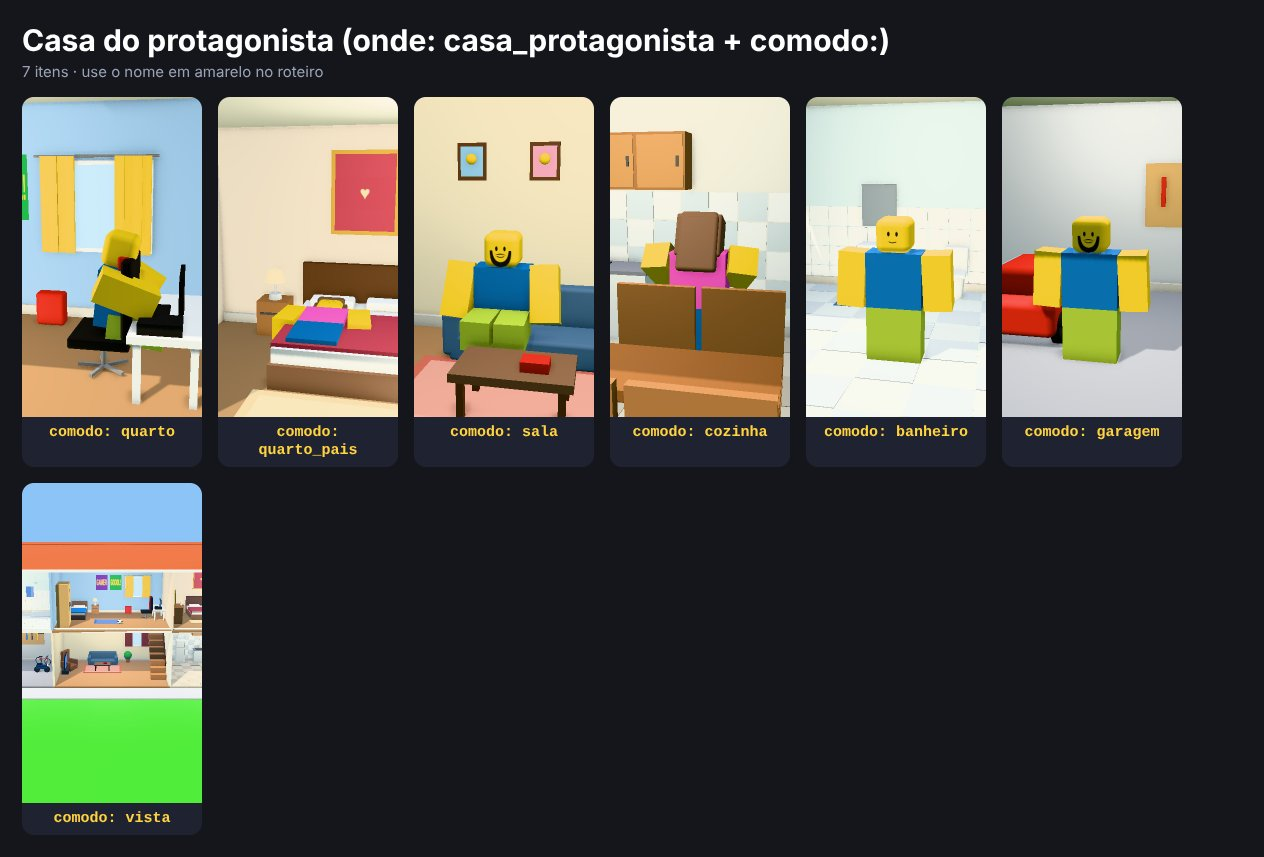
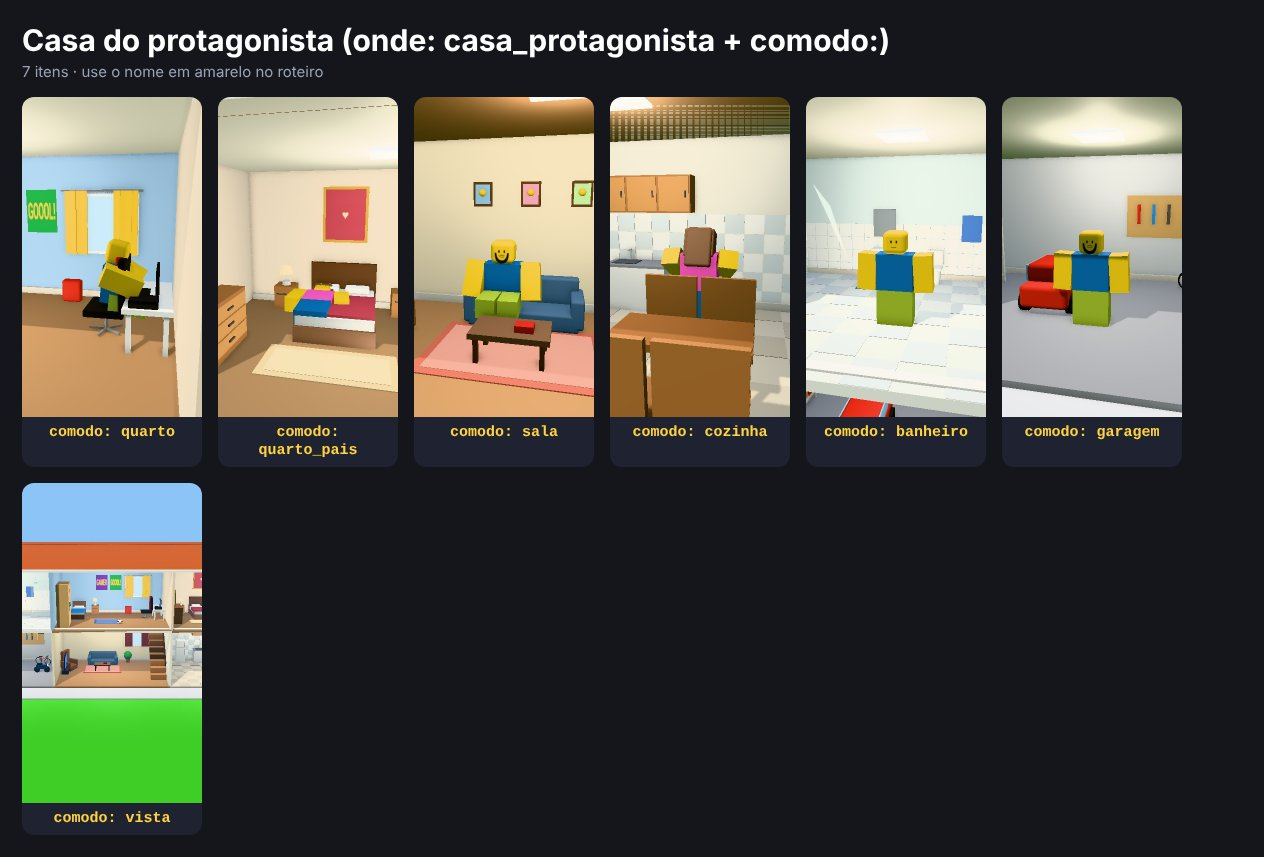
Casas, sobrados, prédios, lojas e bancas na escala do personagem; conferência automática do mundo (ferramentas/conferir_mundo.mjs)
Claude-Session: https://claude.ai/code/session_01L9V3oGiK3wXogPFqZJY4DD

Changed region(s): [[0.0, 0.091, 0.9565, 0.4854], [0.0, 0.6068, 0.1851, 0.9405]]

diff --git a/src/motor/props.js b/src/motor/props.js
@@ -24,14 +24,13 @@ export const PROPS = {
   pinheiro: (o = {}) => grupo([cilindro(0.35, 0.4, 2, '#6b4426', { pos: [0, 1, 0] }), cilindro(0, 2.4, 3.2, o.cor || '#22803a', { pos: [0, 3.2, 0], seg: 10 }),
     cilindro(0, 1.8, 2.6, o.cor || '#2a9443', { pos: [0, 4.6, 0], seg: 10 })]),
   arbusto: (o = {}) => grupo([esfera(1.1, o.cor || '#2f9e3a', { pos: [0, 0.7, 0] }), esfera(0.8, o.cor || '#38ad42', { pos: [0.9, 0.5, 0.2] })]),
-  casa: (o = {}) => { const w = o.largura || 10, h = o.altura || 8, d = 8, n = o.noite;
+  casa: (o = {}) => { const w = o.largura || 10, h = Math.max(9, o.altura || 9), d = 8, n = o.noite;
     const g = grupo([caixa(w, h, d, o.cor || '#e9e6dc', { pos: [0, h / 2, 0] }), caixa(w + 1, 1.2, d + 1, o.telhado || '#3d8f3d', { pos: [0, h + 0.6, 0] }),
-      caixa(2, 3.6, 0.15, o.porta || '#7a4b2a', { pos: [-w / 4, 1.8, d / 2 + 0.05] })]);
-    for (const x of [w / 5, w / 2.6]) g.add(caixa(1.8, 1.8, 0.15, janelaMat(n), { pos: [x, h * 0.55, d / 2 + 0.05] }));
-    g.add(caixa(1.8, 1.8, 0.15, janelaMat(n), { pos: [-w / 4, h * 0.78, d / 2 + 0.05] })); return g; },
+      caixa(2.3, 6.2, 0.15, o.porta || '#7a4b2a', { pos: [-w / 4, 3.1, d / 2 + 0.05] })]);
+    for (const x of [w / 6, w / 2.8]) g.add(caixa(2.2, 2.4, 0.15, janelaMat(n), { pos: [x, 4.4, d / 2 + 0.05] })); return g; },
   predio: (o = {}) => { const w = o.largura || 10, h = o.altura || 22, n = o.noite; const g = grupo([caixa(w, h, 8, o.cor || '#9fb3c8', { pos: [0, h / 2, 0] })]);
-    for (let y = 3; y < h - 1; y += 3.2) for (let x = -w / 2 + 1.6; x < w / 2 - 1; x += 2.4) for (const zz of [4.05, -4.05]) g.add(caixa(1.4, 1.8, 0.1, janelaMat(n && ((x * 7 + y + zz) % 3 > 1)), { pos: [x, y, zz], sombra: false }));
-    for (let y = 3; y < h - 1; y += 3.2) for (const zz of [-1.6, 1.6]) for (const sx of [-1, 1]) g.add(caixa(0.1, 1.8, 1.4, janelaMat(n && ((zz * 5 + y) % 3 > 1)), { pos: [sx * (w / 2 + 0.05), y, zz], sombra: false }));
+    for (let y = 4.4; y < h - 2; y += 6.4) for (let x = -w / 2 + 1.8; x < w / 2 - 1.2; x += 3.2) for (const zz of [4.05, -4.05]) g.add(caixa(2, 2.6, 0.1, janelaMat(n && ((x * 7 + y + zz) % 3 > 1)), { pos: [x, y, zz], sombra: false }));
+    for (let y = 4.4; y < h - 2; y += 6.4) for (const zz of [-1.8, 1.8]) for (const sx of [-1, 1]) g.add(caixa(0.1, 2.6, 2, janelaMat(n && ((zz * 5 + y) % 3 > 1)), { pos: [sx * (w / 2 + 0.05), y, zz], sombra: false }));
     g.add(caixa(w - 0.4, 0.2, 7.6, '#8f939c', { pos: [0, h + 0.1, 0] }));
     return g; },
   poste: (o = {}) => { const g = grupo([cilindro(0.15, 0.2, 9, '#5a5d66', { pos: [0, 4.5, 0] }), caixa(2.2, 0.2, 0.2, '#5a5d66', { pos: [0.9, 8.9, 0] }),
@@ -84,11 +83,11 @@ export const PROPS = {
   hidrante: () => grupo([cilindro(0.35, 0.4, 1.3, '#c4281c', { pos: [0, 0.65, 0] }), esfera(0.36, '#c4281c', { pos: [0, 1.3, 0] }), cilindro(0.15, 0.15, 1.0, '#c4281c', { pos: [0, 0.9, 0], rot: [0, 0, 90] })]),
   lixeira: (o = {}) => grupo([cilindro(0.55, 0.45, 1.6, o.cor || '#2e7d32', { pos: [0, 0.8, 0] }), cilindro(0.6, 0.6, 0.12, '#1b5e20', { pos: [0, 1.65, 0] })]),
   faixa_pedestre: (o = {}) => { const g = grupo([]); for (let i = 0; i < 7; i++) g.add(caixa(1.0, 0.03, o.comprimento || 8, '#f2f3f3', { pos: [i * 1.8 - 5.4, 0.09, 0], sombra: false })); return g; },
-  loja: (o = {}) => { const w = o.largura || 9, c = o.cor || '#e85d5d', n = o.noite; const g = grupo([caixa(w, 7, 6, o.parede || '#f1e7c9', { pos: [0, 3.5, 0] }),
-    caixa(w - 2, 3.4, 0.2, mat(n ? '#ffe3a3' : '#bfe6ff', { emissive: n ? '#ffd27a' : '#bfe6ff', emissiveIntensity: n ? 1.1 : 0.35, rough: 0.1 }), { pos: [0, 2.2, 3.02] }),
-    caixa(w, 0.4, 2.2, c, { pos: [0, 4.4, 4.0], rot: [-18, 0, 0] })]);
-    for (let i = 0; i < Math.floor(w / 1.5); i++) g.add(caixa(0.75, 0.42, 2.25, '#ffffff', { pos: [-w / 2 + 0.375 + i * 1.5, 4.41, 4.01], rot: [-18, 0, 0], sombra: false }));
-    const p = placaTexto(o.texto || 'LOJA', w - 1, 1.2, { fundo: c, corTexto: '#ffffff', emissivo: n }); p.position.set(0, 5.9, 3.02); g.add(p);
+  loja: (o = {}) => { const w = o.largura || 9, c = o.cor || '#e85d5d', n = o.noite; const g = grupo([caixa(w, 10, 6, o.parede || '#f1e7c9', { pos: [0, 5, 0] }),
+    caixa(w - 2, 5.4, 0.2, mat(n ? '#ffe3a3' : '#bfe6ff', { emissive: n ? '#ffd27a' : '#bfe6ff', emissiveIntensity: n ? 1.1 : 0.35, rough: 0.1 }), { pos: [0, 3.2, 3.02] }),
+    caixa(w, 0.4, 2.2, c, { pos: [0, 6.6, 4.0], rot: [-18, 0, 0] })]);
+    for (let i = 0; i < Math.floor(w / 1.5); i++) g.add(caixa(0.75, 0.42, 2.25, '#ffffff', { pos: [-w / 2 + 0.375 + i * 1.5, 6.61, 4.01], rot: [-18, 0, 0], sombra: false }));
+    const p = placaTexto(o.texto || 'LOJA', w - 1, 1.2, { fundo: c, corTexto: '#ffffff', emissivo: n }); p.position.set(0, 8.4, 3.02); g.add(p);
     g.add(caixa(w - 0.4, 0.15, 5.6, '#8f939c', { pos: [0, 7.05, 0] })); g.add(caixa(w + 0.2, 0.8, 0.25, o.parede || '#f1e7c9', { pos: [0, 7.3, 2.9] }));   // laje + platibanda
     const cx = PROPS.caixa_dagua(); cx.position.set(w / 2 - 1.6, 7.1, -1.4); g.add(cx);
     g.add(caixa(1.6, 3.4, 0.12, '#7a4b2a', { pos: [-w / 4, 1.7, -3.02] })); g.add(caixa(1.8, 1.4, 0.12, janelaMat(n), { pos: [w / 4, 4.2, -3.02] }));        // porta e janela dos fundos
@@ -128,8 +127,8 @@ export const PROPS = {
   palanque: (o = {}) => { const g = grupo([caixa(10, 1.4, 6, '#7a1f2b', { pos: [0, 0.7, 0] }), caixa(10.2, 0.15, 6.2, '#c9a24a', { pos: [0, 1.45, 0] }),
     caixa(1.8, 2.4, 1.2, '#5a3a22', { pos: [0, 2.6, 1.6] }), cilindro(0.04, 0.04, 1.0, '#222', { pos: [0, 4.2, 1.9], rot: [-30, 0, 0] }), esfera(0.12, '#333', { pos: [0, 4.65, 2.2] })]);
     const p = placaTexto(o.texto || 'PREFEITURA', 1.7, 0.45, { fundo: '#1d3b72', corTexto: '#ffffff' }); p.position.set(0, 2.9, 2.21); g.add(p); return g; },
-  barraca: (o = {}) => { const c = o.cor || '#e8862f'; const g = grupo([caixa(5, 2.2, 2.4, '#b8875a', { pos: [0, 1.1, 0] }), caixa(5.4, 0.3, 3, c, { pos: [0, 4.6, 0.3] })]);
-    for (const x of [-2.4, 2.4]) g.add(cilindro(0.1, 0.1, 4.5, '#ddd', { pos: [x, 2.3, 1.4] }));
+  barraca: (o = {}) => { const c = o.cor || '#e8862f'; const g = grupo([caixa(5, 2.2, 2.4, '#b8875a', { pos: [0, 1.1, 0] }), caixa(5.4, 0.3, 3, c, { pos: [0, 6.4, 0.3] })]);
+    for (const x of [-2.4, 2.4]) g.add(cilindro(0.1, 0.1, 6.3, '#ddd', { pos: [x, 3.2, 1.4] }));
     for (let i = 0; i < 8; i++) g.add(esfera(0.3, ['#e53935', '#ffd23f', '#7fd35a', '#ff8c1a'][i % 4], { pos: [-1.9 + i * 0.55, 2.45, 0.4] })); return g; },
   outdoor: (o = {}) => { const g = grupo([cilindro(0.25, 0.25, 7, '#5a5d66', { pos: [-3, 3.5, 0] }), cilindro(0.25, 0.25, 7, '#5a5d66', { pos: [3, 3.5, 0] }), caixa(11, 5, 0.3, '#333', { pos: [0, 9, 0] })]);
     const p = placaTexto(o.texto || 'VOTE 10', 10.4, 4.4, { fundo: o.cor || '#1d3b72', corTexto: '#ffd23f', emissivo: o.noite }); p.position.set(0, 9, 0.17); g.add(p); return g; },
@@ -272,10 +271,10 @@ export const PROPS = {
   placa_rua: (o = {}) => { const g = grupo([cilindro(0.1, 0.1, 7.2, '#5a5d66', { pos: [0, 3.6, 0], seg: 8 })]);
     for (const v of [0, Math.PI]) { const p = placaTexto(o.texto || 'RUA DA MATRIZ', 3.6, 0.7, { fundo: '#1d6fd9', corTexto: '#ffffff' }); p.position.set(1.9 * Math.cos(v), 6.8, 0.06 * (v ? -1 : 1)); p.rotation.y = v; g.add(p); }
     return g; },
-  banca_jornal: (o = {}) => { const g = grupo([caixa(4.4, 5, 3, '#1f7a3a', { pos: [0, 2.5, -0.2] }), caixa(5, 0.25, 4, '#17602d', { pos: [0, 5.1, 0.1] }), caixa(3.6, 3.0, 0.1, '#0f3d1c', { pos: [0, 2.6, 1.31] })]);
+  banca_jornal: (o = {}) => { const g = grupo([caixa(4.4, 6.4, 3, '#1f7a3a', { pos: [0, 3.2, -0.2] }), caixa(5, 0.25, 4, '#17602d', { pos: [0, 6.5, 0.1] }), caixa(3.6, 3.0, 0.1, '#0f3d1c', { pos: [0, 2.6, 1.31] })]);
     const cs = ['#e53935', '#1e88e5', '#fdd835', '#8e24aa', '#43a047', '#fb8c00'];
     for (let i = 0; i < 12; i++) g.add(caixa(0.55, 0.75, 0.05, cs[i % 6], { pos: [-1.5 + (i % 6) * 0.6, 1.8 + Math.floor(i / 6) * 1.1, 1.37], sombra: false }));   // revistas
-    const pl = placaTexto(o.texto || 'BANCA', 3.4, 0.8, { fundo: '#ffd23f', corTexto: '#1f7a3a' }); pl.position.set(0, 4.5, 1.32); g.add(pl); return g; },
+    const pl = placaTexto(o.texto || 'BANCA', 3.4, 0.8, { fundo: '#ffd23f', corTexto: '#1f7a3a' }); pl.position.set(0, 5.6, 1.32); g.add(pl); return g; },
   bicicletario: () => { const g = grupo([caixa(5, 0.1, 0.3, '#5a5d66', { pos: [0, 0.05, 0] })]);
     for (let i = 0; i < 4; i++) { const x = -1.8 + i * 1.2; g.add(caixa(0.1, 1.6, 0.1, '#9aa0aa', { pos: [x, 0.8, -0.35] })); g.add(caixa(0.1, 1.6, 0.1, '#9aa0aa', { pos: [x, 0.8, 0.35] })); g.add(caixa(0.1, 0.1, 0.8, '#9aa0aa', { pos: [x, 1.6, 0] })); }
     for (const x of [-1.2, 1.2]) { const b = PROPS.bicicleta(); b.position.set(x, 0, 0); b.rotation.y = Math.PI / 2; g.add(b); } return g; },
@@ -317,23 +316,25 @@ export function assentosDe(raiz) {
 
 /** Casa brasileira: telhado de telha em duas águas, grade na janela, caixa d'água opcional. andares = 1 ou 2. */
 function casaBR(o, andares) {
-  const w = o.largura || 9, d = 8, hA = 4.2, h = hA * andares, c = o.cor || '#f0b446', n = o.noite;
-  const g = grupo([caixa(w, h, d, c, { pos: [0, h / 2, 0] }), caixa(w + 0.1, 0.5, d + 0.1, o.barrado || '#d8d4cc', { pos: [0, 0.25, 0] })]);
+  // escala do personagem (5,2 de altura): andar de 7, porta de 6,2, peitoril na cintura (~3). A frente fica em z = +4 como antes; a casa cresce para trás.
+  const w = o.largura || 9, d = 11, hA = 7, h = hA * andares, c = o.cor || '#f0b446', n = o.noite, z0 = 4 - d / 2;
+  const g = grupo([caixa(w, h, d, c, { pos: [0, h / 2, z0] }), caixa(w + 0.1, 0.6, d + 0.1, o.barrado || '#d8d4cc', { pos: [0, 0.3, z0] })]);
   const telha = o.telhado || '#c8643b', inc = 26, meio = d / 2 + 0.7, comp = meio / Math.cos(inc * Math.PI / 180);
-  for (const s of [-1, 1]) g.add(caixa(w + 1.2, 0.35, comp, telha, { pos: [0, h + Math.tan(inc * Math.PI / 180) * meio / 2, s * meio / 2], rot: [s * inc, 0, 0] }));
+  for (const s of [-1, 1]) g.add(caixa(w + 1.2, 0.35, comp, telha, { pos: [0, h + Math.tan(inc * Math.PI / 180) * meio / 2, z0 + s * meio / 2], rot: [s * inc, 0, 0] }));
   { // oitão (triângulo das laterais) sob as duas águas do telhado
     const sub = Math.tan(inc * Math.PI / 180) * (d / 2), sh = new THREE.Shape([new THREE.Vector2(-d / 2, 0), new THREE.Vector2(d / 2, 0), new THREE.Vector2(0, sub)]);
-    const ot = new THREE.Mesh(new THREE.ExtrudeGeometry(sh, { depth: w - 0.02, bevelEnabled: false }), mat(c)); ot.rotation.y = Math.PI / 2; ot.position.set(-w / 2 + 0.01, h, 0);
+    const ot = new THREE.Mesh(new THREE.ExtrudeGeometry(sh, { depth: w - 0.02, bevelEnabled: false }), mat(c)); ot.rotation.y = Math.PI / 2; ot.position.set(-w / 2 + 0.01, h, z0);
     ot.castShadow = ot.receiveShadow = true; g.add(ot); }
   const vid = () => mat(n ? '#ffe3a3' : '#a8dcff', n ? { emissive: '#ffd27a', emissiveIntensity: 1.1 } : { rough: 0.15, metal: 0.1 });
-  const janela = (x, y) => { g.add(caixa(2.2, 1.9, 0.15, '#ffffff', { pos: [x, y, d / 2 + 0.04] })); g.add(caixa(1.9, 1.6, 0.16, vid(), { pos: [x, y, d / 2 + 0.06], sombra: false }));
-    if (o.grade !== false) for (let k = -0.8; k <= 0.81; k += 0.4) g.add(caixa(0.06, 1.7, 0.06, '#2b2b2b', { pos: [x + k, y, d / 2 + 0.2] })); };
-  g.add(caixa(1.8, 3.4, 0.15, o.porta || '#7a4b2a', { pos: [-w / 4, 1.95, d / 2 + 0.05] })); g.add(esfera(0.1, '#e0b040', { pos: [-w / 4 + 0.6, 1.9, d / 2 + 0.15] }));
-  janela(w / 5, 2.4); if (andares === 2) { janela(-w / 4, hA + 2.2); janela(w / 5, hA + 2.2);
-    g.add(caixa(w * 0.55, 0.25, 1.4, '#d8d4cc', { pos: [w / 5 - 0.3, hA + 0.4, d / 2 + 0.7] }));
-    for (let x = -w * 0.25; x <= w * 0.25; x += 0.45) g.add(caixa(0.07, 1.1, 0.07, '#2b2b2b', { pos: [w / 5 - 0.3 + x, hA + 1.05, d / 2 + 1.35] }));
-    g.add(caixa(w * 0.55, 0.1, 0.1, '#2b2b2b', { pos: [w / 5 - 0.3, hA + 1.6, d / 2 + 1.35] })); }
-  if (o.caixa_dagua !== false) { const cx = PROPS.caixa_dagua(); cx.position.set(w / 2 - 1.8, h + Math.tan(inc * Math.PI / 180) * meio * 0.6, -1.5); g.add(cx); }
+  const F = 4;   // plano da fachada
+  const janela = (x, y) => { g.add(caixa(2.9, 2.7, 0.15, '#ffffff', { pos: [x, y, F + 0.04] })); g.add(caixa(2.5, 2.3, 0.16, vid(), { pos: [x, y, F + 0.06], sombra: false }));
+    if (o.grade !== false) for (let k = -1.05; k <= 1.06; k += 0.42) g.add(caixa(0.07, 2.4, 0.07, '#2b2b2b', { pos: [x + k, y, F + 0.2] })); };
+  const px = -w / 4.2; g.add(caixa(2.3, 6.2, 0.15, o.porta || '#7a4b2a', { pos: [px, 3.1 + 0.2, F + 0.05] })); g.add(esfera(0.13, '#e0b040', { pos: [px + 0.8, 3.1, F + 0.15] }));
+  janela(w / 4.5, 4.4); if (andares === 2) { janela(-w / 4.2, hA + 4.2); janela(w / 4.5, hA + 4.2);
+    g.add(caixa(w * 0.55, 0.3, 1.8, '#d8d4cc', { pos: [w / 4.5 - 0.3, hA + 0.15, F + 0.9] }));   // sacada: guarda-corpo na cintura (3)
+    for (let x = -w * 0.25; x <= w * 0.25; x += 0.5) g.add(caixa(0.08, 3, 0.08, '#2b2b2b', { pos: [w / 4.5 - 0.3 + x, hA + 1.8, F + 1.75] }));
+    g.add(caixa(w * 0.55, 0.12, 0.12, '#2b2b2b', { pos: [w / 4.5 - 0.3, hA + 3.3, F + 1.75] })); }
+  if (o.caixa_dagua !== false) { const cx = PROPS.caixa_dagua(); cx.position.set(w / 2 - 1.8, h + Math.tan(inc * Math.PI / 180) * meio * 0.6, z0 - 1.5); g.add(cx); }
   return g;
 }
 

diff --git a/src/motor/mundo.js b/src/motor/mundo.js
@@ -34,7 +34,7 @@ function porta(w, h, cor, vidro, portas) {
 }
 function luzInterna(g, x, z, h, n, forca = 1, alc = 30) { const l = new THREE.PointLight(0xfff2dd, (n ? 55 : 34) * forca, alc, 1.4); l.position.set(x, h - 2.4, z); g.add(l);
   g.add(cilindro(0.7, 0.55, 0.3, mat('#f4f1ea', { emissive: '#fff3d6', emissiveIntensity: n ? 0.8 : 0.35 }), { pos: [x, h - 0.15, z], seg: 18, sombra: false })); }   // plafon pequeno (luz abaixo do forro, sem mancha)
-const por = (g, tipo, o, pos, vira = 0, esc) => { const p = PROPS[tipo](o); p.position.set(...pos); p.rotation.y = vira * RAD; if (esc) p.scale.setScalar(esc); g.add(p); return p; };
+const por = (g, tipo, o, pos, vira = 0, esc) => { const p = PROPS[tipo](o); p.userData.tipo = tipo; p.position.set(...pos); p.rotation.y = vira * RAD; if (esc) p.scale.setScalar(esc); g.add(p); return p; };
 
 /** `sentar` (e `rezar`) passam a ser a lista de assentos reais, do mais perto do ponto principal ao mais longe: cada pessoa pega um livre. */
 function usarAssentos(anc, lista, zc) {
@@ -106,7 +106,7 @@ function predioOco(o0, ctx) {
     for (const z of [0, -d + 0.3]) { const fr = new THREE.Mesh(new THREE.ExtrudeGeometry(sh, { depth: 0.3, bevelEnabled: false }), mat(o.cor)); fr.position.set(0, h + 0.3, z - 0.3); fr.castShadow = true; teto.add(fr); } }
   else teto.add(caixa(w - 0.6, 0.05, d - 0.6, '#8f939c', { pos: [0, h + 0.33, -d / 2] }));
   g.add(unidade(teto, unidades));
-  const gi = new THREE.Group(); g.add(gi); g.userData.ancoras = M.ancoras(o.interior?.(gi, { w: o0.w, d: o0.d, h: o0.h, n }) || {}); M.objetos(gi);   // desenhado no tamanho antigo, espalhado no novo
+  const gi = new THREE.Group(); gi.userData.interior = true; g.add(gi); g.userData.ancoras = M.ancoras(o.interior?.(gi, { w: o0.w, d: o0.d, h: o0.h, n }) || {}); M.objetos(gi);   // desenhado no tamanho antigo, espalhado no novo
   usarAssentos(g.userData.ancoras, assentosDe(gi), -d / 2);
   if (foco) for (const ch of [...gi.children]) { ch.userData.movel = true; unidade(ch, unidades); }   // móvel que tapar a câmera some (o que está colado no ator fica)
   if (foco) { const grande = Math.max(w, d) > 26; luzInterna(gi, 0, -d / 2, h, n, (o.luz || 1) * (grande ? 1.1 : 1.25), Math.max(30, Math.max(w, d) * 1.3));
@@ -145,11 +145,11 @@ const PREDIOS_MUNDO = {
   padaria: { w: 18, d: 18, h: 10, cor: '#f3d9a4', faixa: '#8a4a1f', piso: '#b98b5e', letreiro: { texto: 'PADARIA', fundo: '#8a4a1f', cor: '#ffe9b0' }, porta: { x: -4, w: 2.6, vidro: true }, vitrines: [{ x: 4, w: 7 }],
     interior(gi) {   // balcão em linha (doces · estufa de pães · caixa), prateleiras de pão ao fundo, forno, mesinhas para o café
       por(gi, 'vitrine_doces', { largura: 4 }, [-7, 0.2, -11]); por(gi, 'estufa_paes', { largura: 6 }, [-2, 0.2, -11]); por(gi, 'balcao', { largura: 4, cor: '#8a4a1f' }, [4.5, 0.2, -11]);
-      por(gi, 'caixa_registradora', {}, [5.4, 3.4, -11], 180); por(gi, 'cafeteira', {}, [3.2, 3.2, -11.2]); por(gi, 'cesto_paes', {}, [4.6, 3.2, -10.7], 0, 0.7);
+      por(gi, 'caixa_registradora', {}, [6.2, 3.4, -11], 180); por(gi, 'cafeteira', {}, [2.6, 3.2, -11.2]); por(gi, 'cesto_paes', {}, [4.2, 3.2, -10.7], 0, 0.6);
       por(gi, 'prateleira_paes', { largura: 12 }, [-1, 0.2, -16.6]); por(gi, 'forno_padaria', {}, [7.0, 0.2, -16.2]); por(gi, 'pilha_caixas', { n: 3, cor: '#efe6d0', seed: 7 }, [-8, 0.2, -15.6]);
       por(gi, 'placa_suspensa', { texto: 'PÃO QUENTINHO', cor: '#8a4a1f', cor_texto: '#ffe9b0', largura: 4 }, [-2, 8.2, -11]);
       por(gi, 'mural', { texto: 'CAFÉ R$ 3 · PÃO R$ 0,80', largura: 4.4, altura: 2, cor: '#3a2a1a', cor_texto: '#ffe9b0' }, [8.75, 5.4, -8], -90);
-      por(gi, 'geladeira_vitrine', { largura: 3 }, [-8.0, 0.2, -5.0], 90); por(gi, 'mesa', { largura: 2.6, cor: '#8a5a33' }, [-7.6, 0.2, -8.6], 90); for (const z of [-9.2, -8.0]) por(gi, 'cesto_paes', {}, [-7.6, 2.45, z], 0, 0.8);
+      por(gi, 'geladeira_vitrine', { largura: 3 }, [-8.0, 0.2, -5.0], 90); por(gi, 'mesa', { largura: 2.6, cor: '#8a5a33' }, [-7.6, 0.2, -8.6], 90); for (const z of [-9.5, -7.7]) por(gi, 'cesto_paes', {}, [-7.6, 2.45, z], 0, 0.7);
       for (const z of [-3.4, -7.0]) { por(gi, 'mesa', { largura: 2.6, cor: '#f2f3f3' }, [5, 0.2, z]); por(gi, 'cadeira_plastico', {}, [2.9, 0.2, z], 90); por(gi, 'cadeira_plastico', {}, [7.1, 0.2, z], -90); }
       por(gi, 'relogio_parede', {}, [8.75, 7.6, -13], -90); por(gi, 'ventilador_teto', {}, [-3, 10, -5]); por(gi, 'ventilador_teto', {}, [4, 10, -5]);
       por(gi, 'lixeira', { cor: '#8a4a1f' }, [8.2, 0.2, -1.0], 0, 0.7); por(gi, 'planta', {}, [-8.2, 0.2, -1.0]); por(gi, 'tapete', { largura: 2.6, prof: 1.4, cor: '#5a3a22' }, [-4, 0.2, -1.1]);
@@ -255,7 +255,7 @@ const COMODOS_MUNDO = Object.fromEntries(Object.entries({ sala: [-6, -5], cozinh
 function casaProtagonista(ctx) {
   const { n, unidades, portas, foco } = ctx, { w, d, h } = CASA, g = new THREE.Group(), cor = '#f2c46d', inte = '#f4ecd8';
   const qual = (x, z) => z > -10 ? (x < 1 ? 'sala' : 'cozinha') : (x < -4 ? 'quarto' : x < 3 ? 'banheiro' : 'quarto_pais');
-  const por = (gg, tipo, o, pos, vira = 0, esc) => { const p = PROPS[tipo](o); p.position.set(...pos); p.rotation.y = vira * RAD; if (esc) p.scale.setScalar(esc); gg.add(p);
+  const por = (gg, tipo, o, pos, vira = 0, esc) => { const p = PROPS[tipo](o); p.userData.tipo = tipo; p.position.set(...pos); p.rotation.y = vira * RAD; if (esc) p.scale.setScalar(esc); gg.add(p);
     p.userData.movel = true; p.userData.comodo = qual(pos[0], pos[2]); unidade(p, unidades); if (ctx.comodo && p.userData.comodo !== ctx.comodo) p.userData.oculto = true; return p; };
   g.add(caixa(w, 0.2, d, '#a8805a', { pos: [0, 0.1, -d / 2] }));
   for (const [x0, x1, z0, z1, c] of [[1, 13, 0, -10, '#c9c2b3'], [-4, 3, -10, -20, '#e8ece8']]) g.add(caixa(x1 - x0, 0.02, Math.abs(z1 - z0), c, { pos: [(x0 + x1) / 2, 0.21, (z0 + z1) / 2], sombra: false }));
@@ -395,15 +395,15 @@ export function construirMundo(o, g, r) {
   const cores = ['#8fc1e3', '#f2a7c3', '#b7e1a1', '#e9e6dc', '#f28b5b', '#c9b2e8', '#ffe08a'];
   const LOJAS_BAIRRO = [[100 + BX, 1], [139 + BX, -1], [178 + BX, 1]];   // [x, lado] ocupados por mercadinho, oficina e borracharia
   for (let x = 84; x <= 210 + BX; x += 13) for (const lado of [-1, 1]) { if (lado < 0 && Math.abs(x - CASA_LOTE.f[0]) < CASA.w * CSX / 2 + 5) continue; if (lado > 0 && x < 60 + BX) continue;
-    if (LOJAS_BAIRRO.some(([lx, ll]) => ll === lado && Math.abs(lx - x) < 6)) continue;
+    if (LOJAS_BAIRRO.some(([lx, ll]) => ll === lado && Math.abs(lx - x) < 12)) continue;   // meia loja + meia casa + folga
     if (lado > 0 && Math.abs(x - CAMPINHO.x) < CAMPINHO.w / 2 + 10) continue;   // campinho + folga de gramado dos dois lados
-    por(g, r() < 0.3 ? 'sobrado' : 'casa_br', { cor: r.item(cores), noite: n, largura: 9 }, [x, 0, lado * 13], lado > 0 ? 180 : 0);
+    por(g, r() < 0.3 ? 'sobrado' : 'casa_br', { cor: r.item(cores), noite: n, largura: 11.5 }, [x, 0, lado * 13], lado > 0 ? 180 : 0);
     por(g, 'muro', { largura: 12, cor: '#e9e6dc', portao_x: r.entre(-2, 2) }, [x, 0, lado * 8.1], lado > 0 ? 180 : 0); }
   por(g, 'placa_rua', { texto: 'RUA DAS FLORES' }, [AN + 5, 0.2, 7.6], 90); por(g, 'ponto_onibus', { cor: '#2e7d32' }, [150, 0.2, 7.4], 0); por(g, 'bicicletario', {}, [126, 0.2, 7.6]);
   for (let x = 82; x <= 200 + BX; x += 16) por(g, 'poste_fios', { noite: n }, [x, 0, -5.6]);
   por(g, 'posto_gasolina', { noite: n }, [52 + BX, 0.2, 9], 180);
   for (const [x, z, v, c] of [[-RM, 16, 0, '#1d3b72'], [RM, 12, 180, '#f2f3f3'], [10, RM, 90, '#f5c400']]) por(g, c === '#f5c400' ? 'taxi' : 'carro', { cor: c }, [x, 0.2, z], v);
-  for (const z of [-1, 1]) for (let x = -84; x <= 84; x += 12) por(g, r() < 0.3 ? 'sobrado' : 'casa_br', { cor: r.item(cores), noite: n, largura: 8 }, [x, 0, z * 100], z > 0 ? 180 : 0);
+  for (const z of [-1, 1]) for (let x = -84; x <= 84; x += 12) por(g, r() < 0.3 ? 'sobrado' : 'casa_br', { cor: r.item(cores), noite: n, largura: 10.5 }, [x, 0, z * 100], z > 0 ? 180 : 0);
   povoar(g, n, r);
   g.add(caixa(500, 16, 80, '#3fae3a', { pos: [0, 0, -170] }));
   g.userData.unidades = unidades; g.userData.portas = portas;
@@ -411,10 +411,10 @@ export function construirMundo(o, g, r) {
 
 // ---------------- prédios extras (só por fora) para a cidade não ficar vazia ----------------
 /** Loja colocada pela linha da fachada (f) e direção (rot). */
-function loja(g, fx, fz, rot, texto, cor, w = 9, n, parede) { const p = PROPS.loja({ texto, cor, largura: w, noite: n, parede }); const r = rot * RAD;
+function loja(g, fx, fz, rot, texto, cor, w = 9, n, parede) { const p = PROPS.loja({ texto, cor, largura: w, noite: n, parede }); p.userData.tipo = 'loja:' + texto; const r = rot * RAD;
   p.position.set(fx - Math.sin(r) * 3, 0.2, fz - Math.cos(r) * 3); p.rotation.y = r; g.add(p); return p; }
-function predio(g, x, z, rot, alt, cor, n) { const p = PROPS.predio({ altura: alt, largura: 10, cor, noite: n }); p.position.set(x, 0, z); p.rotation.y = rot * RAD; g.add(p);
-  for (let y = 3; y < alt - 1; y += 3.2) for (const xx of [-3, 0, 3]) { const v = caixa(1.6, 0.15, 0.7, '#d8d4cc', { pos: [xx, y - 0.9, 4.3] }); p.add(v); }   // sacadas
+function predio(g, x, z, rot, alt, cor, n) { const p = PROPS.predio({ altura: alt, largura: 10, cor, noite: n }); p.userData.tipo = 'predio'; p.position.set(x, 0, z); p.rotation.y = rot * RAD; g.add(p);
+  for (let y = 4.4; y < alt - 2; y += 6.4) for (const xx of [-3.2, 0, 3.2]) { const v = caixa(2.2, 0.15, 0.7, '#d8d4cc', { pos: [xx, y - 1.5, 4.3] }); p.add(v); }   // sacadas
   return p; }
 function caixaDaguaTorre(g, x, z) { const t = grupo([cilindro(4, 4, 5, '#d8dde3', { pos: [0, 21, 0], seg: 20 }), cilindro(4.3, 4.3, 0.6, '#9aa0aa', { pos: [0, 23.7, 0], seg: 20 }),
     ...[0, 90, 180, 270].map(a => caixa(0.6, 18.5, 0.6, '#9aa0aa', { pos: [Math.sin(a * RAD) * 3, 9.25, Math.cos(a * RAD) * 3] })), caixa(6.6, 0.4, 0.4, '#9aa0aa', { pos: [0, 9, 0] }), caixa(0.4, 0.4, 6.6, '#9aa0aa', { pos: [0, 9, 0] })]);
@@ -462,9 +462,9 @@ export const EXTRAS_MAPA = [
   ];
 function povoar(g, n, r) {
   // cantos e vãos em volta da praça
-  loja(g, -49, -FR, 0, 'SORVETERIA', '#ff66cc', 8, n);
+  loja(g, -56, -FR, 0, 'SORVETERIA', '#ff66cc', 8, n);
   loja(g, 41, -FR, 0, 'AÇOUGUE', '#8a1f1f', 8, n);
-  loja(g, -51, FR, 180, 'PAPELARIA', '#6b32a8', 8, n);
+  loja(g, -56, FR, 180, 'PAPELARIA', '#6b32a8', 8, n);
   loja(g, 33, FR, 180, 'SALÃO DE BELEZA', '#e0207a', 9, n);
   loja(g, -10, FR, 180, 'LOJA DE ROUPAS', '#1e6fd9', 8, n);
   loja(g, -1.5, FR, 180, 'ÓTICA', '#00897b', 7, n);
@@ -472,17 +472,17 @@ function povoar(g, n, r) {
   for (const [z, a, c] of [[-24, 16, '#9fb3c8'], [-8, 12, '#e9d8b0'], [24, 18, '#c9b2e8']]) predio(g, -64 + WX, z, 90, a, c, n);
   loja(g, -59 + WX, 8, 90, 'POUSADA', '#2e7d32', 12, n, '#f6efe0');
   caixaDaguaTorre(g, -82 + WX, 0);
-  for (let z = -40; z <= 40; z += 13) por(g, r() < 0.4 ? 'sobrado' : 'casa_br', { cor: r.item(['#8fc1e3', '#f2a7c3', '#b7e1a1', '#ffe08a', '#f28b5b']), noite: n, largura: 8.5 }, [-98 + WX, 0, z], 90);
+  for (let z = -40; z <= 40; z += 13) por(g, r() < 0.4 ? 'sobrado' : 'casa_br', { cor: r.item(['#8fc1e3', '#f2a7c3', '#b7e1a1', '#ffe08a', '#f28b5b']), noite: n, largura: 11.5 }, [-98 + WX, 0, z], 90);
   // norte e sul atrás das fileiras: mais casas e um prédio
   predio(g, -66, -66, 0, 14, '#f0b446', n); predio(g, 66, -66, 0, 12, '#8fc1e3', n);   // longe da fileira de casas de trás
   // bairro: comércio de rua, segunda fileira de casas e quadra
   loja(g, 100 + BX, 9, 180, 'MERCADINHO', '#43a047', 9, n);
-  loja(g, 139 + BX, -9, 0, 'OFICINA', '#3a3d44', 11, n, '#cfd3da'); por(g, 'carro', { cor: '#1d3b72' }, [139 + BX, 0.2, -7.4], 90, 0.9);
+  loja(g, 139 + BX, -9, 0, 'OFICINA', '#3a3d44', 11, n, '#cfd3da'); por(g, 'carro', { cor: '#1d3b72' }, [139 + BX, 0.2, -6.4], 90, 0.9);
   loja(g, 178 + BX, 9, 180, 'BORRACHARIA', '#f5b800', 8, n); for (let i = 0; i < 3; i++) g.add(cilindro(0.9, 0.9, 0.6, '#1b1b1b', { pos: [181.5 + BX, 0.5 + i * 0.62, 7.6], seg: 14 }));
-  for (let x = 74 + BX; x <= 204 + BX; x += 13) for (const lado of [-1, 1]) if (r() < 0.8) por(g, r() < 0.35 ? 'sobrado' : 'casa_br', { cor: r.item(['#8fc1e3', '#f2a7c3', '#b7e1a1', '#e9e6dc', '#f28b5b', '#c9b2e8', '#ffe08a']), noite: n, largura: 8.5 }, [x, 0, lado * 59], lado > 0 ? 180 : 0);
+  for (let x = 74 + BX; x <= 204 + BX; x += 13) for (const lado of [-1, 1]) if (r() < 0.8) por(g, r() < 0.35 ? 'sobrado' : 'casa_br', { cor: r.item(['#8fc1e3', '#f2a7c3', '#b7e1a1', '#e9e6dc', '#f28b5b', '#c9b2e8', '#ffe08a']), noite: n, largura: 11.5 }, [x, 0, lado * 59], lado > 0 ? 180 : 0);
   for (const lado of [-1, 1]) g.add(caixa(170, 0.2, 7, '#4f5361', { pos: [135 + BX, 0.11, lado * 47] }));   // ruas paralelas (longe o bastante da casa do protagonista, que é funda)
   campinho(g, n, r);
-  for (let i = 0; i < 10; i++) por(g, 'arvore', { tam: r.entre(0.9, 1.3) }, [r.entre(55 + BX, 200 + BX), 0, r.item([-1, 1]) * r.entre(66, 72)]);
+  for (let i = 0; i < 10; i++) por(g, 'arvore', { tam: r.entre(0.9, 1.3) }, [r.entre(55 + BX, 200 + BX), 0, r.item([-1, 1]) * r.entre(71, 77)]);
 }
 
 /**

diff --git a/src/motor/main.js b/src/motor/main.js
@@ -331,6 +331,27 @@ async function preview() {
 
 /** Posição na tela (pixels) de pontos do mundo [[x,y,z],...] — usado para escrever nomes no mapa. */
 function projetar(pts) { posar(0); cam.updateMatrixWorld(); return pts.map(p => { const v = new THREE.Vector3(...p).project(cam); return [(v.x + 1) / 2 * cfg.largura, (1 - v.y) / 2 * cfg.altura]; }); }
-window.motor = { iniciar, montar, quadro, quadros, preview, projetar, pronto: true, depurar: () => { const nObj = (() => { let k = 0; atual.cen.grupo.traverse(o => { if (o.isMesh) k++; }); return k; })(); const nLuz = (() => { let k = 0; cena.traverse(o => { if (o.isLight) k++; }); return k; })(); const rc = new THREE.Raycaster(); rc.setFromCamera(new THREE.Vector2(0, 0), cam); const h = rc.intersectObjects(cena.children, true).slice(0, 3);
+/** Conferência do cenário montado: construções que se sobrepõem, objetos dentro de construções e construções baixas demais para o personagem (5,2). */
+const PAR_OK = [[/^mesa/, /cadeira|computador|banqueta/], [/carrinho/, /carrinho/], [/altar/, /vaso/], [/balcao|estufa/, /caixa_registradora|cafeteira|cesto|balanca/]];   // encaixes de propósito
+function conferir() {
+  const CONSTR = /^(casa_br|sobrado|casa|loja|predio|posto_gasolina|banca_jornal|barraca|ponto_onibus|lote:|casa_prot)/, OBJ = /^(arvore|poste|poste_fios|carro|taxi|onibus|banco|lixeira|bicicletario|placa_rua|orelhao)$/;
+  const itens = []; cena.updateMatrixWorld(true);
+  for (const o of atual.cen.grupo.children) { const t = o.userData.lote ? 'lote:' + o.userData.lote.id : o.userData.tipo; if (!t) continue;
+    const b = new THREE.Box3().setFromObject(o); if (b.isEmpty()) continue; if (/^loja/.test(t)) b.setFromObject(o.children[0]);   // loja: só o corpo (debaixo do toldo pode)
+    itens.push({ t, b, c: CONSTR.test(t), p: [+o.position.x.toFixed(1), +o.position.z.toFixed(1)] }); }
+  const sob = (a, b, f = 0.4) => Math.min(a.b.max.x, b.b.max.x) - Math.max(a.b.min.x, b.b.min.x) > f && Math.min(a.b.max.z, b.b.max.z) - Math.max(a.b.min.z, b.b.min.z) > f;
+  const C = itens.filter(i => i.c), O = itens.filter(i => OBJ.test(i.t)), res = { construcoes: C.length, sobrepostas: [], objeto_dentro: [], baixas: [] };
+  for (let i = 0; i < C.length; i++) for (let j = i + 1; j < C.length; j++) if (sob(C[i], C[j], 0.8)) res.sobrepostas.push([C[i].t, C[i].p, C[j].t, C[j].p]);
+  for (const o of O) for (const c of C) { const bb = c.b.clone().expandByScalar(-0.6); if (sob({ b: bb }, o, 0.2) && o.b.min.y < bb.max.y) res.objeto_dentro.push([o.t, o.p, c.t, c.p]); }
+  for (const c of C) if (!/ponto_onibus|barraca|banca/.test(c.t) && c.b.max.y - c.b.min.y < 7) res.baixas.push([c.t, c.p, +(c.b.max.y - c.b.min.y).toFixed(1)]);
+  res.moveis_sobrepostos = [];   // dentro dos prédios: móvel atravessando móvel (tapete, quadro e pôster podem)
+  for (const o of atual.cen.grupo.children) { if (!o.userData.lote && !o.userData.ancoras) continue;
+    const gi = o.children.find(c => c.userData.interior), lista = gi ? gi.children : o.children.filter(m => m.userData.movel);
+    const M = lista.filter(m => !/tapete|poster|quadro|placa|relogio|ventilador|luminaria|extintor/.test(m.userData.tipo || '')).map(m => ({ t: m.userData.tipo || '?', b: new THREE.Box3().setFromObject(m), p: [+m.position.x.toFixed(1), +m.position.z.toFixed(1)] }));
+    for (let i = 0; i < M.length; i++) for (let j = i + 1; j < M.length; j++) if (sob(M[i], M[j], 0.35) && Math.min(M[i].b.max.y, M[j].b.max.y) - Math.max(M[i].b.min.y, M[j].b.min.y) > 0.3)
+      if (!PAR_OK.some(([a, b]) => (a.test(M[i].t) && b.test(M[j].t)) || (a.test(M[j].t) && b.test(M[i].t)))) res.moveis_sobrepostos.push([o.userData.lote?.id || 'casa', M[i].t, M[i].p, M[j].t, M[j].p]); }
+  return res;
+}
+window.motor = { iniciar, montar, quadro, quadros, preview, projetar, pronto: true, conferir, depurar: () => { const nObj = (() => { let k = 0; atual.cen.grupo.traverse(o => { if (o.isMesh) k++; }); return k; })(); const nLuz = (() => { let k = 0; cena.traverse(o => { if (o.isLight) k++; }); return k; })(); const rc = new THREE.Raycaster(); rc.setFromCamera(new THREE.Vector2(0, 0), cam); const h = rc.intersectObjects(cena.children, true).slice(0, 3);
   return { malhas: nObj, luzes: nLuz, camera: cam.position.toArray().map(v => +v.toFixed(2)), toques: h.map(x => ({ d: +x.distance.toFixed(2), cor: x.object.material?.color?.getHexString?.(), geo: x.object.geometry?.parameters, pos: x.object.getWorldPosition(new THREE.Vector3()).toArray().map(v => +v.toFixed(1)) })) }; } };
 if (new URLSearchParams(location.search).has('preview')) preview();

diff --git a/src/motor/cenarios.js b/src/motor/cenarios.js
@@ -24,7 +24,7 @@ function nuvens(g, r) {
     for (let j = 0; j < 4; j++) { const e = esfera(r.entre(6, 10), mat('#ffffff', { lambert: true, emissive: '#c2d2e6', fog: false }), { pos: [cx + j * 8 - 12, cy + r.entre(-2, 2), cz] }); e.castShadow = false; g.add(e); } }
 }
 function lua(g) { g.add(esfera(6, mat('#f4f1d0', { basic: true, fog: false }), { pos: [-40, 70, -180], sombra: false })); }
-export function add(g, tipo, o, pos, vira = 0) { const p = PROPS[tipo](o); p.position.set(...pos); p.rotation.y = THREE.MathUtils.degToRad(vira); g.add(p); return p; }
+export function add(g, tipo, o, pos, vira = 0) { const p = PROPS[tipo](o); p.userData.tipo = tipo; p.position.set(...pos); p.rotation.y = THREE.MathUtils.degToRad(vira); g.add(p); return p; }
 export function sala(g, { largura = 26, profundo = 8, altura = 11, parede = '#e8e6e1', chao = '#bfb6a8', teto = '#f4f4f4' } = {}) {
   g.userData.limites = { x: largura / 2 - 0.8, y: altura - 0.8, z: -profundo + 0.8 };
   g.add(caixa(largura, 0.4, 60, chao, { pos: [0, -0.2, 20] }));

diff --git a/docs/CONTINUAR.md b/docs/CONTINUAR.md
@@ -18,6 +18,7 @@ Leia este arquivo primeiro. Ele resume o que já existe, as regras de trabalho c
   - `node ferramentas/folha_cenas.mjs roteiros/x.yaml saida.jpg 1-16` → 1 foto por cena (no máx. 16 por folha).
   - `node ferramentas/quadros_cena.mjs roteiros/x.yaml saida.jpg 3,7` → cada cena em 0 s / 1,5 s / 3 s.
   - `node ferramentas/preview_assets.mjs [categoria]` → atualiza `docs/preview/*.jpg`.
+  - `node ferramentas/conferir_mundo.mjs [hora]` → **sem imagens**: lista construções sobrepostas, objetos dentro de construções, construções baixas demais e móveis atravessando móveis. Rode depois de mexer no mundo, em prédios ou em móveis (tem que dar tudo 0).
 - Validar roteiro sem render: `node -e "import('./src/node/roteiro.mjs').then(m=>m.carregarRoteiro('roteiros/x.yaml'))"`.
 
 ## Roteiros prontos para rascunho (todos no mundo integrado)
@@ -31,6 +32,9 @@ Leia este arquivo primeiro. Ele resume o que já existe, as regras de trabalho c
 | `peso_das_promessas.yaml` | longo, 48 cenas (~2 min, aventura) | conferido; cenas do telhado (33–41) ajustadas por último |
 
 Quando o usuário mandar o retorno do rascunho, ajuste **só** as cenas citadas.
+
+## Escala (regra do mundo)
+Personagem 5,2 de altura. Andar de casa 7 studs, porta 6,2, peitoril da janela ~3, prédio com andares de 6,4, toldo de loja a 6,6. Cama de solteiro 2,9×6,2, casal 4,8×6,2.
 
 ## Recursos que os roteiros já podem usar (resumo — detalhes em `docs/ROTEIRO.md`)
 - Casa do protagonista ampliada (cômodos 1,6× × 1,45×, pé-direito 9) para a câmera caber dentro dos cômodos.
